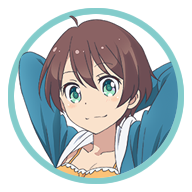
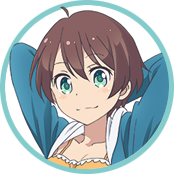
Updated thumbnails, and added Naru headshot
Updated thumbnails to all be the same size, and removed white outer ring. Also added placeholder Umiko.

diff --git a/content/girls/umiko.md b/content/girls/umiko.md
@@ -1,0 +1,14 @@
+---
+order: 10
+name: Umiko
+quote: Placeholder
+image: "./media/umiko.png"
+thumbnail: "./media/umiko-thumbnail.png"
+color: "#992121"
+strengths:
+  - P
+weaknesses:
+  - P
+---
+
+Airsoft Player

diff --git a/content/girls/ko.md b/content/girls/ko.md
@@ -1,7 +1,7 @@
 ---
 order: 3
 name: Ko
-quote: KoIWannaLeaveOnTime
+quote: Ko@IWannaLeaveOnTime
 image: "./media/ko.png"
 thumbnail: "./media/ko-thumbnail.png"
 color: "#a5b7ff"
